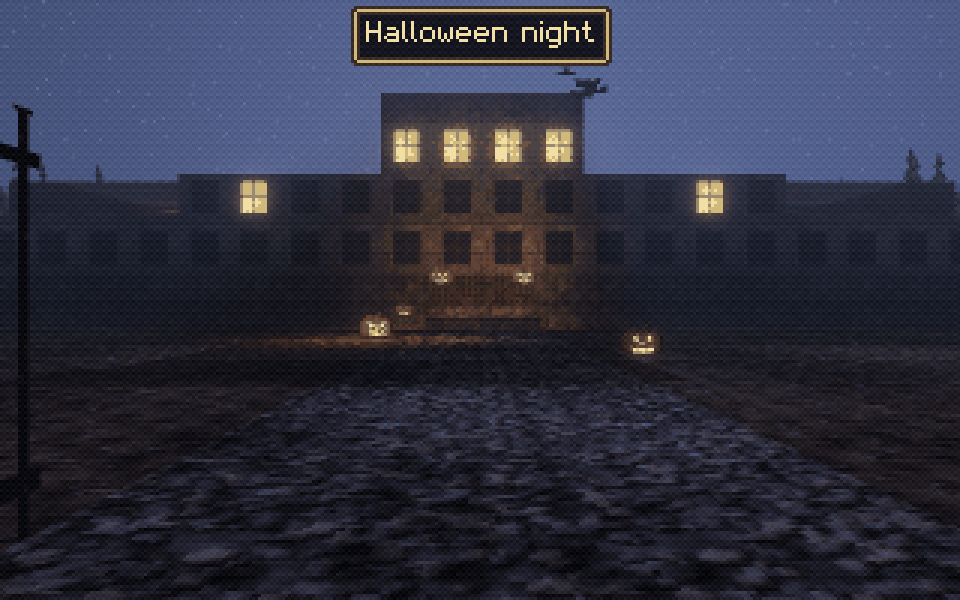
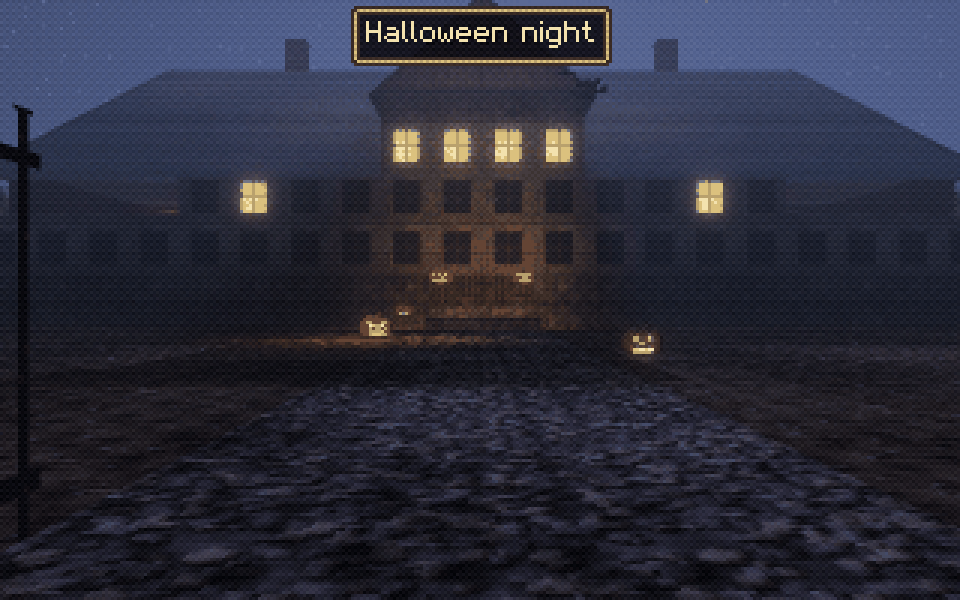
Slate roofs for the haunted house and the churchyard chapel
The haunted house and the chapel were flat-topped boxes - the same
trouble the user saw in the village, 'roofless'. Both now wear steep
roofs of slate in 3D (a new roof cover: dark blue-grey slates in narrow
courses): the house's with two brick chimneys and the tower over the
door its own gable, the chapel's down the nave with its front gable in
pale stone.

gable_roof: chimney takes a list of places, and chimneys grow stouter
on a bigger roof; ends makes the gable ends stone of any rock kind.
Inside, the ceilings hide the roofs - the interior shots are unchanged
to the pixel.

diff --git a/scripts/objects.py b/scripts/objects.py
@@ -36,7 +36,7 @@ PLACEMENT_KEYS = {'type', 'x', 'y', 'z', 'angle', 'scale', 'paint', 'lights', 't
                   'rock', 'length', 'height', 'depth', 'pieces', 'trim', 'size', 'seed', 'plants', 'back', 'lining',
                   'count', 'spread', 'color', 'refract', 'glow', 'base', 'material', 'sides', 'radius', 'top', 'capital',
                   'sink', 'broken', 'width', 'flutes', 'doric', 'fill', 'rise', 'overhang', 'walls', 'inset',
-                  'cover', 'chimney', 'plaster', 'gauge', 'ore', 'roots', 'piece', 'side', 'heel'}
+                  'cover', 'chimney', 'plaster', 'gauge', 'ore', 'roots', 'piece', 'side', 'heel', 'ends'}
 
 
 # ------------------------------------------------------------------ parts
@@ -1404,18 +1404,20 @@ def shed_roof(pl):
 
 def gable_roof(pl):
     """A gabled roof: the ridge `length` long the way it faces, `width` across, the eaves at the
-    placement's `z` and the ridge `rise` above them; `cover` is `boards` (the default), `thatch` or
-    `tile`. It overhangs by `overhang` - a number, or [at the eaves, at the ends]; its gable ends are
+    placement's `z` and the ridge `rise` above them; `cover` is `boards` (the default), `thatch`, `tile`
+    or `slate`. It overhangs by `overhang` - a number, or [at the eaves, at the ends]; its gable ends are
     closed with upright boards, and under it stand `walls` that tall (0 for none) - the body of a
     building on a lower block, or a shed on the ground - set `inset` in from the roof's ends and
     eaves: a number (from the front end only) or [front, back, left, right]. `chimney` stands one on
-    the ridge, that far along it from the back (0..1); `plaster` (a colour) makes the walls and gable
-    ends plaster of that colour instead of boards."""
+    the ridge, that far along it from the back (0..1) - or a list of such places, one for each;
+    `plaster` (a colour) makes the walls and gable ends plaster of that colour instead of boards, and
+    `ends` (a kind of rock: `ashlar`, `stone`, ...) makes them stone."""
     cover = pl.get('cover', 'boards')
     roof = (_timber(pl, (0.025, 0.4, 0.4), 0.14) if cover == 'boards'
             else dict(ROOFS[cover], key=_turned(ROOFS[cover]['key'], pl)))
-    ends = (_timber(pl, (0.025, 0.025, 0.4), 0.16) if not pl.get('plaster')
-            else dict(PLASTER, ramps=[ramp(pl['plaster'], dark=0.4, light=1.3)], key=_turned(PLASTER['key'], pl)))
+    ends = (_rock_kind(dict(pl, rock=pl['ends'])) if pl.get('ends')
+            else dict(PLASTER, ramps=[ramp(pl['plaster'], dark=0.4, light=1.3)], key=_turned(PLASTER['key'], pl))
+            if pl.get('plaster') else _timber(pl, (0.025, 0.025, 0.4), 0.16))
     seed = int(pl.get('seed', 1))
     L, W, r = float(pl.get('length', 3.0)) / 2, float(pl.get('width', 2.0)) / 2, float(pl.get('rise', 0.8))
     o = pl.get('overhang', 0.12)
@@ -1432,9 +1434,12 @@ def gable_roof(pl):
         for k, c in enumerate((((f, rt, 0.0), (f, lf, 0.0), (f, rt, -h)), ((b, lf, 0.0), (b, rt, 0.0), (b, lf, -h)),
                                ((b, rt, 0.0), (f, rt, 0.0), (b, rt, -h)), ((f, lf, 0.0), (b, lf, 0.0), (f, lf, -h)))):
             parts.append(_rock(ends, seed + 4 + k, *c))
-    if pl.get('chimney') is not None:                                 # a chimney of brick through the ridge
-        x = -L + 2 * L * float(pl['chimney'])
-        c0, c1, ztop = 0.13, 0.13, r + 0.36
+    chims = pl.get('chimney')
+    for place in ([] if chims is None else chims if isinstance(chims, (list, tuple)) else [chims]):
+        x = -L + 2 * L * float(place)                                 # a chimney of brick through the ridge,
+        big = max(1.0, r / 0.9) ** 0.5                                # stouter on a bigger roof
+        c0 = c1 = 0.13 * big
+        ztop = r + 0.36 * big
         brick = ROOFS['chimney']
         for k, c in enumerate((((x + c0, c1, ztop), (x + c0, -c1, ztop), (x + c0, c1, r * 0.4)),
                                ((x - c0, -c1, ztop), (x - c0, c1, ztop), (x - c0, -c1, r * 0.4)),
@@ -1533,6 +1538,8 @@ ROOFS = {
                    key=(-0.4, 0.45, 0.8), shade=(0.36, 0.5)),
     'tile': dict(paint=_tiles, ramps=[ramp('#9a5038', dark=0.36, light=1.35, warm=0.08), ramp('#8a8a5a', dark=0.4, light=1.3)],
                  key=(-0.4, 0.45, 0.8), shade=(0.36, 0.5), course=(0.1, 0.13), lichen=0.06),
+    'slate': dict(paint=_tiles, ramps=[ramp('#4a4e5a', dark=0.45, light=1.55, cool=0.2), ramp('#5e6a4c', dark=0.4, light=1.3)],
+                  key=(-0.4, 0.45, 0.8), shade=(0.34, 0.52), course=(0.075, 0.15), lichen=0.05),
     'chimney': dict(paint=_tiles, ramps=[ramp('#8a4a36', dark=0.36, light=1.3)], key=(-0.4, 0.45, 0.8),
                     shade=(0.38, 0.5), course=(0.06, 0.12)),
 }

diff --git a/examples/haunted_house.py b/examples/haunted_house.py
@@ -2,7 +2,9 @@
 iron fence and dead trees, bats against the moon - and inside, the hall with its grand staircase,
 where the family portraits watch and someone is waiting on the landing.
 
-Shows a grand staircase built from the `heights` layer (a flight of steps with `carpet` treads up
+The house wears a steep roof of slate in 3D over its walls, two chimneys of brick, and the tower over
+the door its own gable (`gable_roof` objects with `"cover": "slate"`). Shows a grand staircase built
+from the `heights` layer (a flight of steps with `carpet` treads up
 to a landing at 1.4, a `balustrade` stood along its edge as cards at that height), a double-height
 hall (`ceiling_height` 3), stacked walls of panelling and wallpaper, a fireplace, the haunted
 props - `portrait`, `candelabra`, `grandfather_clock`, `cobweb` across the corners, `bats` - and
@@ -118,6 +120,11 @@ def haunted_house():
         fog={'color': [0.06, 0.07, 0.1], 'density': 0.02, 'glow': 0.7},
         lights=[{'type': 'moon', 'azimuth': 275, 'elevation': 24, 'intensity': 0.5}] + hall_lights + yard_lights,
         sprites=sprites,
+        objects=[  # the roof: steep slate over the house, its gable ends east and west; the tower's own gable
+            {'type': 'gable_roof', 'x': 12.0, 'y': 12.5, 'z': 3.0, 'angle': 0, 'length': 20.0, 'width': 19.0,
+             'rise': 5.0, 'cover': 'slate', 'overhang': [0.3, 0.2], 'chimney': [0.2, 0.8], 'seed': 3},
+            {'type': 'gable_roof', 'x': 12.0, 'y': 21.6, 'z': 4.6, 'angle': 90, 'length': 1.4, 'width': 4.0,
+             'rise': 1.8, 'cover': 'slate', 'overhang': [0.2, 0.15], 'seed': 5}],
         camera={'x': 11.95, 'y': 36.6, 'angle': 270, 'fov': 66, 'height': 0.5},
         shots=[
             {'x': 11.95, 'y': 36.6, 'angle': 270, 'post': [GLOW],

diff --git a/examples/chapel_graveyard.py b/examples/chapel_graveyard.py
@@ -94,6 +94,9 @@ s = scene(
     scatter=[{'of': 'undergrowth', 'on': ',', 'density': 0.35, 'clump': 1.5, 'sizes': ['tiny', 'small', 'medium'],
               'seed': 4},
              {'of': 'stones', 'on': ',p', 'density': 0.25, 'sizes': ['tiny', 'small'], 'seed': 5}],
+    # its roof: steep slate down the nave, its gable over the door in pale stone
+    objects=[{'type': 'gable_roof', 'x': 17.0, 'y': 7.0, 'z': 3.2, 'angle': 90, 'length': 12.0, 'width': 16.0,
+              'rise': 5.2, 'cover': 'slate', 'ends': 'ashlar', 'overhang': [0.3, 0.15], 'seed': 7}],
     camera={'x': 16.5, 'y': 34.0, 'look_at': [16.5, 6.0, 1.6], 'fov': 72},
     shots=[
         {'x': 13.2, 'y': 31.2, 'look_at': [16.8, 12.0, 1.5], 'fov': 74, 'post': [GLOW],

diff --git a/docs/ASSETS.md b/docs/ASSETS.md
@@ -923,7 +923,7 @@ Things too big for a billboard, built in 3D out of flat panels (`scripts/objects
 |---|---|---|---|
 | `trough` | good | ghost_town | A horse trough of weathered boards (`_wood` with `boards`: a seam between each, each its own tone), a rim, still water a hand below it, a soft shadow. Replaces the `water_trough` billboard in the ghost town. |
 | `shed_roof` | good | - | A roof of boards sloping down to its front edge, the boards running down the slope. The western facade builds one over every porch (ghost_town), sloping from the front down to the fascia so it shows from the street. |
-| `gable_roof` | good | - | A gabled roof of boards with gable ends of upright boards, `walls` under it (`inset` back from its front). The western facade builds one behind every false front (ghost_town): the building's body, low enough for the front to hide. |
+| `gable_roof` | good | chapel_graveyard, haunted_house | A gabled roof of boards with gable ends of upright boards, `walls` under it (`inset` back from its front). The western facade builds one behind every false front (ghost_town): the building's body, low enough for the front to hide. |
 | `market_stand` | good | village_green | The market stall in 3D, as the noodle stand: a trestle table of weathered boards with a striped skirt (the awning's valance, in step), four poles, a striped awning sloping down to the front with a scalloped valance round it; `goods_*` heaped on the table, crates and a sack by it, as billboards. Replaces the `market_stall` billboard in the village. |
 | `saloon_bar` | good | saloon | A saloon's counter in 3D, 0.38 tall: raised mahogany panels between pilasters, a polished top overhanging the drinkers' side, the bartender's shelves behind, a brass foot rail on brackets, bottles on it. |
 | `rails` | good | gold_mine | A narrow track: two iron rails on wooden sleepers every 0.22, their tops worn bright. |
@@ -1063,7 +1063,7 @@ The environments, judged on their gallery images and shots.
 | `hospital_garden` | good | 3 | hospital_garden_01 |  |
 | `library_medium` | good | 1 | library_medium |  |
 | `mansion_library` | good | 2 | - | Taller, under a panelled ceiling (the beams radiated as stripes), shelves two storeys high, furnished: a desk and reader, armchair, globe, telescope, clock, candelabras, books flying. |
-| `haunted_house` | good | 4 | haunted_front, haunted_hall, haunted_parlour, haunted_ghost | Halloween at the old house: the front with jack-o'-lanterns and bats, the hall's grand stair and landing, the parlour, the ghost on the stairs. |
+| `haunted_house` | good | 4 | haunted_front, haunted_hall, haunted_parlour, haunted_ghost | Halloween at the old house: the front with jack-o'-lanterns and bats, the hall's grand stair and landing, the parlour, the ghost on the stairs. Roofed in 3D now: a steep `slate` roof over the house with two brick chimneys, the tower over the door its own gable - the house read as a flat-topped box. |
 | `tunnel_encounter` | good | 2 | tunnel_01 |  |
 | `underground_waterway` | good | 4 | waterway_01 | A thinner fog with halos and lanterns at the far end: the channel recedes into lit stone, the boat and its reflection read. |
 | `sewer_tunnels` | good | 3 | sewer_thing |  |
@@ -1098,7 +1098,7 @@ The environments, judged on their gallery images and shots.
 | `misty_moor` | good | 3 | moor_dawn, moor_circle | Stones of varied heights with weathered menhir faces and slanted, chipped stone_cap tops in dawn mist. |
 | `winter_lake` | good | 4 | winter_night, winter_day | Ice redrawn (fractures, depth) and snow redrawn (drifts); the snowy spruce and snow-capped boulders. |
 | `winter_woods` | good | 4 | winter_lane, winter_deer, winter_lantern, winter_stream | A snowbound wood: the lane, a deer on a frozen stream in falling snow, a child by a lantern-lit footbridge, trees mirrored in the ice. |
-| `chapel_graveyard` | good | 4 | chapel_yard, chapel_nave | The yard is a little sparse. |
+| `chapel_graveyard` | good | 4 | chapel_yard, chapel_nave | The yard is a little sparse. Roofed in 3D now: a steep `slate` roof down the nave, its gable over the door in pale stone (`ends`: `ashlar`). |
 
 ### Castles, ruins and caves
 
@@ -1159,6 +1159,7 @@ The environments, judged on their gallery images and shots.
 ## Pass log
 
 - **2026-10-19, pass 0.** First full review of every asset, on review sheets and in the gallery. This file and `docs/asset_review.py` were added.
+- **2026-10-21, roofs for the old houses.** The haunted house and the churchyard chapel were flat-topped boxes - the village's fault, the user's word was 'roofless'. Both have steep roofs of `slate` in 3D (a new cover: dark blue-grey, narrow courses): the house's with two brick chimneys (`chimney` takes a list; chimneys grow stouter on a bigger roof) and the tower's own gable, the chapel's with its front gable in pale stone (`ends`, new: gable ends of a rock kind). Inside, the ceilings hide the roofs: the interior shots are unchanged to the pixel.
 - **2026-10-21, the wreck.** After the user's list and the fantasy refresh, a look over the scenes not touched today: the kelp forest's wreck was a ring of plank walls round a low block, its rock outcrops blocks too. A new object, `ship_hull` - planked and ribbed, stern, curving sides, a bow whose stem sweeps up, `heel` and `broken` - lies listing in the sand turned toward the cameras (broadside on, at first, it read as a wall), and the outcrops are boulders of live reef rock.
 - **2026-10-21, the hall of doors.** The fantasy refresh, fifth: its walls of doors were flat paint. Now a pilaster of cream marble stands between every two doors, on a base, and a cornice runs along every storey - 90 `column`s and 6 `beam`s - so the corridor's rhythm stands out and catches the light down its length.
 - **2026-10-21, the drowned library.** The fantasy refresh, fourth: its ceiling was one flat dark plane - now dark timber roof beams cross the hall between the skylights, on brackets at the shelves, catching the light from the holes; the ambient a little higher and the fog a little thinner, so the shelves read.

diff --git a/references/recipes.md b/references/recipes.md
@@ -41,7 +41,7 @@ Make water of the air - a dense teal fog (`[0, 0.15, 0.19]`, density about 0.05)
 
 ### Haunted houses
 
-A double-height hall (`ceiling_height` 3) with walls stacked `["wood_panel", "wallpaper", "wallpaper"]` and a `beams` ceiling; a grand staircase from the `heights` layer (a straight flight of 0.2 steps with `carpet` tops up to a landing block at 1.4) with `balustrade` cards along the landing's edge at `z` 1.4; `portrait`s on the walls, `candelabra`s (with warm lights) on the floor and the landing, a `chandelier`, a `grandfather_clock`, `armor`, `cobweb`s across the corners, a `fireplace` with an `armchair`, and the `ghost` on the stairs. Outside: a dark front with a taller middle (stacked `stone_dark` and dark windows, one or two `window_lit`), `jack_o_lantern`s on the steps, a `fence_iron` with the gate open, `dead_tree`s and `gravestone`s, `bats` against the moon. See `examples/haunted_house.py`.
+Give the house a steep roof outside - a `gable_roof` object of `"cover": "slate"` on its walls' tops (`z` at their height), a `chimney` at two places - the ceilings inside hide it. A double-height hall (`ceiling_height` 3) with walls stacked `["wood_panel", "wallpaper", "wallpaper"]` and a `beams` ceiling; a grand staircase from the `heights` layer (a straight flight of 0.2 steps with `carpet` tops up to a landing block at 1.4) with `balustrade` cards along the landing's edge at `z` 1.4; `portrait`s on the walls, `candelabra`s (with warm lights) on the floor and the landing, a `chandelier`, a `grandfather_clock`, `armor`, `cobweb`s across the corners, a `fireplace` with an `armchair`, and the `ghost` on the stairs. Outside: a dark front with a taller middle (stacked `stone_dark` and dark windows, one or two `window_lit`), `jack_o_lantern`s on the steps, a `fence_iron` with the gate open, `dead_tree`s and `gravestone`s, `bats` against the moon. See `examples/haunted_house.py`.
 
 ## Cities
 

diff --git a/references/scene_format.md b/references/scene_format.md
@@ -693,8 +693,9 @@ An object is a thing too big to be a billboard - a car, a food stand, rock, crys
 | `overhang` | a gabled roof: how far its slopes reach past the walls (default 0.12), or `[at the eaves, at the ends]` |
 | `walls` | a gabled roof: how tall the walls under it are (default 0: none) - a shed on the ground, or a building's body on a lower block |
 | `inset` | a gabled roof: how far its walls stand back from its front end (default 0), or `[front, back, left, right]` from its ends and eaves |
-| `cover` | a gabled roof: `boards` (the default), `thatch` (reed ends in streaks of gold and brown, laid in courses, greener at the ridge) or `tile` (clay tiles in staggered courses, each its own shade, lichen on a few) |
-| `chimney` | a gabled roof: a brick chimney through the ridge, this far along it from the back (0-1) |
+| `cover` | a gabled roof: `boards` (the default), `thatch` (reed ends in streaks of gold and brown, laid in courses, greener at the ridge), `tile` (clay tiles in staggered courses, each its own shade, lichen on a few) or `slate` (dark blue-grey slates in narrow courses) |
+| `chimney` | a gabled roof: a brick chimney through the ridge, this far along it from the back (0-1), or a list of places for several; stouter on a bigger roof |
+| `ends` | a gabled roof: its gable ends (and walls) of stone - a rock kind such as `ashlar` - instead of boards |
 | `plaster` | a gabled roof: its walls and gable ends plaster of this colour (`#rrggbb`) instead of boards |
 | `gauge` | rails: how far apart (default 0.24) |
 | `roots` | a keel: `false` leaves out the roots trailing from its top |
